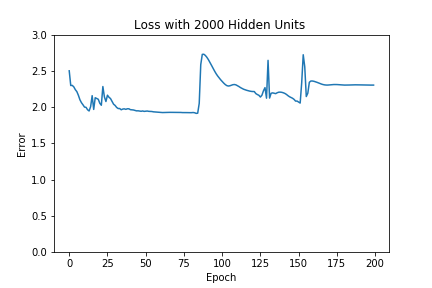
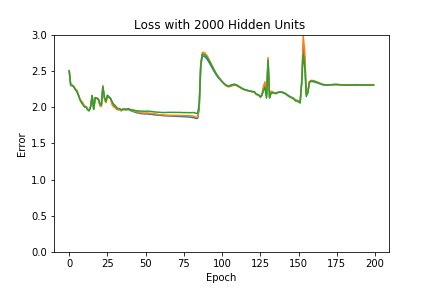
Complete?

diff --git a/LAB2/starter.py b/LAB2/starter.py
@@ -86,12 +86,6 @@ def init(K):
     return w1,w2,b1,b2,v1,v2,v_b1,v_b2
     
 def delta_cross_entropy(X,y):
-    """
-    X is the output from fully connected layer (num_examples x num_classes)
-    y is labels (num_examples x 1)
-    	Note that y is not one-hot encoded vector. 
-    	It can be computed as y.argmax(axis=1) from one-hot encoded vectors of labels if required.
-    """
     m = y.shape[0]
     grad = softmax(X)
     grad[range(m),y] -= 1
@@ -102,8 +96,8 @@ def plotLab(errorListTrain,errorListValid,errorListTest, accuracyListTrain, accu
     
     def plot_loss():
         plt.figure(1)
-        #plt.plot(errorListTrain, label = "Training Loss")
-        #plt.plot(errorListValid, label = "Validation Loss")
+        plt.plot(errorListTrain, label = "Training Loss")
+        plt.plot(errorListValid, label = "Validation Loss")
         plt.plot(errorListTest, label = "Test Loss")
         plt.xlabel("Epoch")
         plt.ylabel("Error")
@@ -115,8 +109,8 @@ def plotLab(errorListTrain,errorListValid,errorListTest, accuracyListTrain, accu
     
     def plot_acc():
         plt.figure(2)
-        #plt.plot(accuracyListTrain, label = "Training Accuracy")
-        #plt.plot(accuracyListValid, label = "Validation Accuracy")
+        plt.plot(accuracyListTrain, label = "Training Accuracy")
+        plt.plot(accuracyListValid, label = "Validation Accuracy")
         plt.plot(accuracyListTest, label = "Test Accuracy")
         plt.ylabel("Accuracy")
         plt.xlabel("Epoch")
